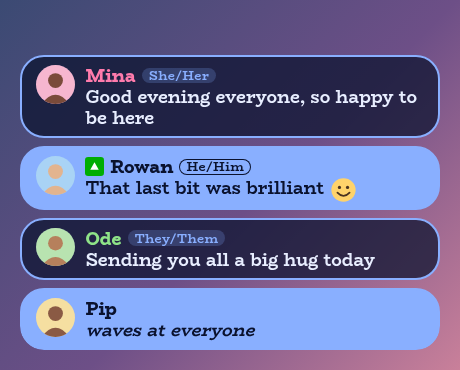
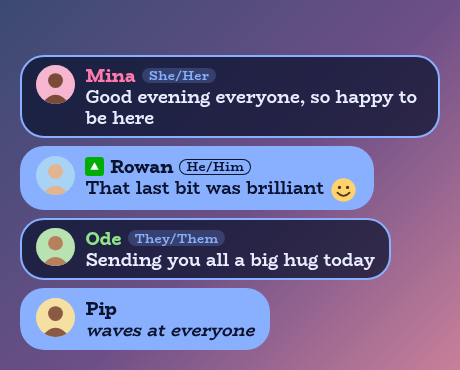
Fit each bubble to the width of its message in bubble mode
A short message such as a greeting looked a little lost in a bubble as wide
as the whole box. In bubble mode each bubble is now only as wide as its
words, and a long message still grows to the edge of the box and wraps
there.

Changed region(s): [[0.5478, 0.3865, 0.9739, 0.9514]]

diff --git a/overlays/chat-feed/test/test-widget.js b/overlays/chat-feed/test/test-widget.js
@@ -354,6 +354,7 @@ const until = async (test, ms) => { for (let i = 0; i < (ms || 2000) / 25 && !te
   }
   ok(worst >= 3.5, "in every preset the words on an accent bubble can be read (the weakest, " + worstKey + ", is " + worst.toFixed(1) + " to 1)");
   const css = require("fs").readFileSync(require("path").join(__dirname, "../widget/widget.css"), "utf8");
+  ok(/#cf-app\.bubble-mode \.cf-msg\s*\{[^}]*width:\s*fit-content[^}]*max-width:\s*100%/.test(css), "in bubble mode each bubble is as wide as its message, and no wider than the box");
   ok(/#cf-app\.bubble-mode \.cf-msg\.alt\s*\{[^}]*background:\s*var\(--w-accent\)/.test(css) && /#cf-app\.bubbles::after\s*\{\s*display:\s*none/.test(css), "the stylesheet colours the other bubbles with the accent, and gives the frame to each bubble and not the whole widget");
 
   await load({ textSize: 6, rowGap: 1 });

diff --git a/overlays/chat-feed/widget/widget.css b/overlays/chat-feed/widget/widget.css
@@ -179,6 +179,8 @@
 
 /* Bubble mode: the same, with the bubbles taking turns between the panel colour and the accent colour. The accent ones have
    no flag behind them, and say their name, their pronouns and their initial in whichever text colour reads better on it. */
+/* Each bubble is as wide as its message, and no wider than the box, so a short message does not sit in a long empty bubble. */
+#cf-app.bubble-mode .cf-msg { align-self: flex-start; width: fit-content; max-width: 100%; }
 #cf-app.bubble-mode .cf-msg.alt {
   background: var(--w-accent);
   background-image: none;

diff --git a/overlays/chat-feed/README.md b/overlays/chat-feed/README.md
@@ -14,7 +14,7 @@ It is a single self-contained widget in plain JavaScript, with no dependencies a
 - Pronouns: shown beside the name as a small tag, in brackets, or as plain text, with a way to set them by hand.
 - Readable names: a chat colour that would be hard to read on your panel is swapped for the accent colour.
 - Two layouts: the name above the message or on the same line, and one panel behind everything or a card for each message.
-- Bubble mode: one checkbox takes the panel away and has the bubbles take turns between the preset's panel colour and its accent colour, with the words on the accent ones in whichever text colour reads better there.
+- Bubble mode: one checkbox takes the panel away, sizes each bubble to its message, and has the bubbles take turns between the preset's panel colour and its accent colour, with the words on the accent ones in whichever text colour reads better there.
 - Scrolls like chat: a new message arrives at the bottom, the older ones glide up and fade out through the top edge, and how many show depends on how tall you make the box in StreamElements. With the newest at the top it scrolls the other way.
 - Tidy by default: chat commands, and the usual bots, are left out, and you can add names of your own.
 - Moderation: `!chatfeed hide name` takes someone off the screen, and a message StreamElements deletes disappears from it too.
@@ -33,7 +33,7 @@ It is a single self-contained widget in plain JavaScript, with no dependencies a
 
 <p><img src="docs/bubbles.png" alt="Four chat messages, each on its own pale pink card" width="420"></p>
 
-**Bubble mode,** here in Midnight blue. The panel behind the chat goes, and the bubbles take turns between the preset's panel colour and its accent colour.
+**Bubble mode,** here in Midnight blue. The panel behind the chat goes, each bubble is as wide as its message, and the bubbles take turns between the preset's panel colour and its accent colour.
 
 <p><img src="docs/bubble-mode.png" alt="Four chat messages on rounded bubbles that alternate between deep navy and pale periwinkle blue" width="420"></p>
 
